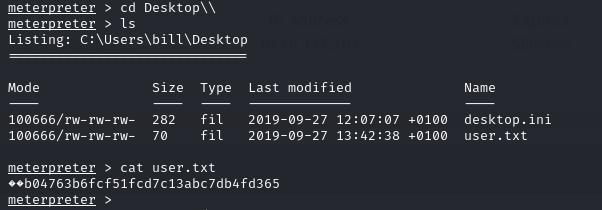
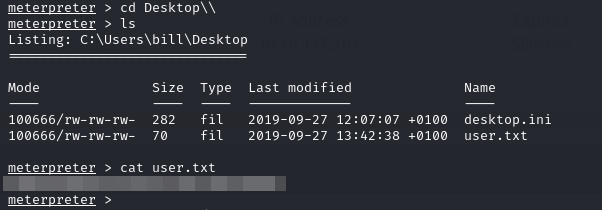
vault backup: 2023-09-23 16:38:51

Changed region(s): [[0.0, 0.8286, 0.4784, 0.9143]]

diff --git a/Posts/TryHackMe_Writeups/Writeups/Steel Mountain - CTF/Steel Mountain - CTF.md b/Posts/TryHackMe_Writeups/Writeups/Steel Mountain - CTF/Steel Mountain - CTF.md
@@ -43,18 +43,23 @@ Options set
 
 ![](images/20230912201920.png)
 
-As we can see the RHOSTS is our target host that is the Rejetto Http File Server, The RPORT is the target port which is **8080**. For the SRVHOST it will be our attack machine IP address this is basically the address where the exploit will be served on to be delivered on the target machine just like creating a python server to send a LinPeas script to a target machine but in this case we are sending the expliot **windows/webapps/49125.py** (which is already in metasploit's database) from our attack machine to the target machine. Now the LHOST is our listener IP address which in this case is our attack IP and the address we will use to setup a listener to catch the shell while the LPORT is just the port we want to listen on.
-![](images/0230923162713.png)
+As we can see the RHOSTS is our target host that is the Rejetto Http File Server, The RPORT is the target port which is **8080**. For the SRVHOST it will be our attack machine IP address this is basically the address where the exploit will be served on to be delivered on the target machine just like creating a python server to send a LinPeas script to a target machine but in this case we are sending the expliot **windows/webapps/49125.py** (which is already in metasploit's database) from our attack machine to the target machine. 
+Now the LHOST is our listener IP address which in this case is our attack IP and the address we will use to setup a listener to catch the shell while the LPORT is just the port we want to listen on.
+
+We then run the exploit and gain a meterpreter shell
+![](images/20230923162713.png)
+
 Now to get the flag. Our initial access places us in this directory `C:\Users\bill\AppData\Roaming\Microsoft\Windows\Start Menu\Programs\Startup`
 
-So from experience we should know the flag should be in the user's desktop, documents folder etc. We then navigate to directory of the user "bill" and cat the user.txt file to get the flag.
+So from experience of previous CTFs we should know the flag might be in the user's desktop, documents folder or somewhere else. We then navigate to desktop directory of the user "bill" and cat the user.txt file to get the flag.
+
 ![](images/20230912202842.png)
 
-
 # Privilege Escalation
-Now that you have an initial shell on this Windows machine as Bill, we can further enumerate the machine and escalate our privileges to root!
+Now that you have an initial shell on this Windows machine as the user Bill, we can further enumerate the machine and escalate our privileges to NT AUTHORITY\\SYSTEM!
 
-To enumerate this machine, we will use a powershell script called PowerUp, that's purpose is to evaluate a Windows machine and determine any abnormalities - "_PowerUp aims to be a clearinghouse of common Windows privilege escalation_ _vectors that rely on misconfigurations._"
+From tryhackme:
+*To enumerate this machine, we will use a powershell script called PowerUp, It's purpose is to evaluate a Windows machine and determine any abnormalities - "_PowerUp aims to be a clearinghouse of common Windows privilege escalation_ _vectors that rely on misconfigurations._"
 
 You can download the script [here](https://github.com/PowerShellMafia/PowerSploit/blob/master/Privesc/PowerUp.ps1).  If you want to download it via the command line, be careful not to download the GitHub page instead of the raw script. Now you can use the **upload** command in Metasploit to upload the script.
 
